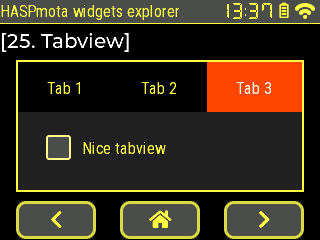
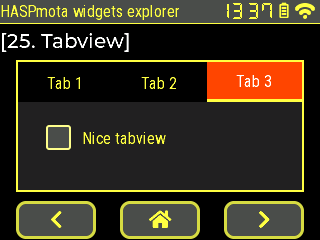
HASPmota tabview add 'val' attribute

diff --git a/docs/HASPmota.md b/docs/HASPmota.md
@@ -905,10 +905,10 @@ The `tabview` can be used to organize content in tabs.
 Example:
 
 ```json
-{"id":10,"obj":"tabview","x%":5,"y":60,"h%":55,"w%":90,"tab_bar_size":40,"btn_pos":1,"bg_color":"#222222","border_width":2,"border_color":"#FFFF44"}
-  {"id":51,"obj":"tab","parentid":10,"text":"Tab 1","tab_bg_color":"#000000","tab_bg_color01":"#FF4400","tab_text_color":"#FFFF44","tab_text_color01":"#FFFFFF"}
-  {"id":52,"obj":"tab","parentid":10,"text":"Tab 2","tab_bg_color":"#000000","tab_bg_color01":"#FF4400","tab_text_color":"#FFFF44","tab_text_color01":"#FFFFFF"}
-  {"id":53,"obj":"tab","parentid":10,"text":"Tab 3","tab_bg_color":"#000000","tab_bg_color01":"#FF4400","tab_text_color":"#FFFF44","tab_text_color01":"#FFFFFF"}
+{"id":10,"obj":"tabview","x%":5,"y":60,"h%":55,"w%":90,"tab_bar_size":40,"btn_pos":1,"bg_color":"#222222","border_width":2,"border_color":"#FFFF44","val":2}
+  {"id":51,"obj":"tab","parentid":10,"text":"Tab 1","tab_bg_color":"#000000","tab_bg_color01":"#FF4400","tab_text_color":"#FFFF44","tab_text_color01":"#FFFFFF","tab_border_color":"#FFFF44","tab_border_side":1,"tab_border_width":0,"tab_border_width01":3}
+  {"id":52,"obj":"tab","parentid":10,"text":"Tab 2","tab_bg_color":"#000000","tab_bg_color01":"#FF4400","tab_text_color":"#FFFF44","tab_text_color01":"#FFFFFF","tab_border_color":"#FFFF44","tab_border_side":1,"tab_border_width":0,"tab_border_width01":3}
+  {"id":53,"obj":"tab","parentid":10,"text":"Tab 3","tab_bg_color":"#000000","tab_bg_color01":"#FF4400","tab_text_color":"#FFFF44","tab_text_color01":"#FFFFFF","tab_border_color":"#FFFF44","tab_border_side":1,"tab_border_width":0,"tab_border_width01":3}
     {"id":61,"obj":"switch","x":20,"y":10,"w":60,"h":30,"parentid":51,"radius":25,"radius20":25,"bg_color":"#4f4f4f","bg_color20":"#FFFF88","bg_color11":"#FF4400"}
     {"id":71,"obj":"dropdown","x":15,"y":10,"w":110,"h":30,"parentid":52,"options":"Apple\nBanana\nOrange\nMelon","bg_color50":"#FF4400","text_color":"#FFFF88","text_color50":"#FFFF88","border_color":"#FFFF88"}
       {"id":72,"obj":"dropdown_list","parentid":71,"text_color":"#EAEAEA","bg_color51":"#FF4400"}
@@ -921,6 +921,9 @@ You must first define a `tabview` object, and add as many as `tab` sub-objects. 
 :---|:---|:---
 `tab_bar_size`|`tab_bar_size`|(write-only) Set the vertical size of tab buttons.
 `bg_color`|`bg_color`|Set the background color for the content background of the sub-tabs
+`val`||Set or read the index of the active tab (0..count-1).
+`count`||(read-only) Read the number of tabs
+`text`||(read-only) Read the label of the active tab
 `border_color`|`border_color`|Set the color of the overall border of tabview.
 `border_width`|`border_width`|Set the border size of the overall border of tabview.
 
